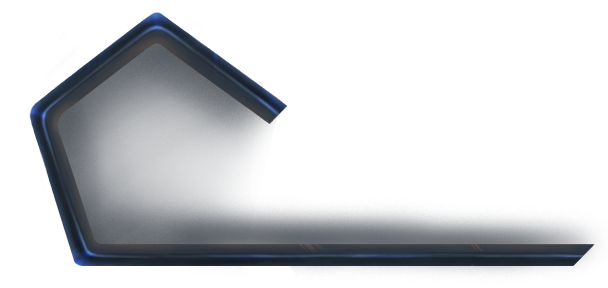
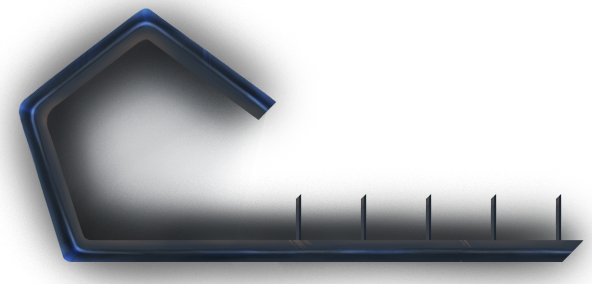
ui powerups & input bugfixing

diff --git a/Assets/Scripts/Airplanes/LocalPlayerActions.cs b/Assets/Scripts/Airplanes/LocalPlayerActions.cs
@@ -36,6 +36,7 @@ public class LocalPlayerActions : MonoBehaviour
 
     private int BardSize = 21;
     public PowerUp PowerupSlotForCommand;
+    public Sprite BlankPixel;
 
     private void Awake()
     {
@@ -132,7 +133,7 @@ public class LocalPlayerActions : MonoBehaviour
     {
         BardSize = Bardsize;
         float BoardScaling = ((0.28f * Bardsize) + Bardsize) / 2f;
-        BackPanel.transform.position = new Vector3(BoardScaling, BoardScaling,0);
+        BackPanel.transform.position = new Vector3(BoardScaling + 2f, BoardScaling,0);
         PlayerCamera.transform.position = new Vector3(BoardScaling, BoardScaling, -((0.28f * Bardsize) + Bardsize));
         BoardScaling = ((0.28f * Bardsize) + Bardsize) / 10f;
         BackPanel.transform.localScale = new Vector3(BoardScaling, 1, BoardScaling);

diff --git a/Assets/Scripts/Airplanes/PlanesPlayer.cs b/Assets/Scripts/Airplanes/PlanesPlayer.cs
@@ -66,7 +66,7 @@ public class PlanesPlayer : NetworkBehaviour
         ReturnDebugToServer("Take Player's Powerup!");
         LocalPlayerActions.Instance.PowerupsInventory[powerupSlot].CurrentlyHeldPowerup = null;
         LocalPlayerActions.Instance.PowerupsInventory[powerupSlot].isOccupied = false;
-        LocalPlayerActions.Instance.PowerupsInventory[powerupSlot].SlotButtonInstance.image.sprite = null;
+        LocalPlayerActions.Instance.PowerupsInventory[powerupSlot].SlotButtonInstance.image.sprite = LocalPlayerActions.Instance.BlankPixel;
     }
     [Command]
     public void ReturnDebugToServer(string DebugInfo)
